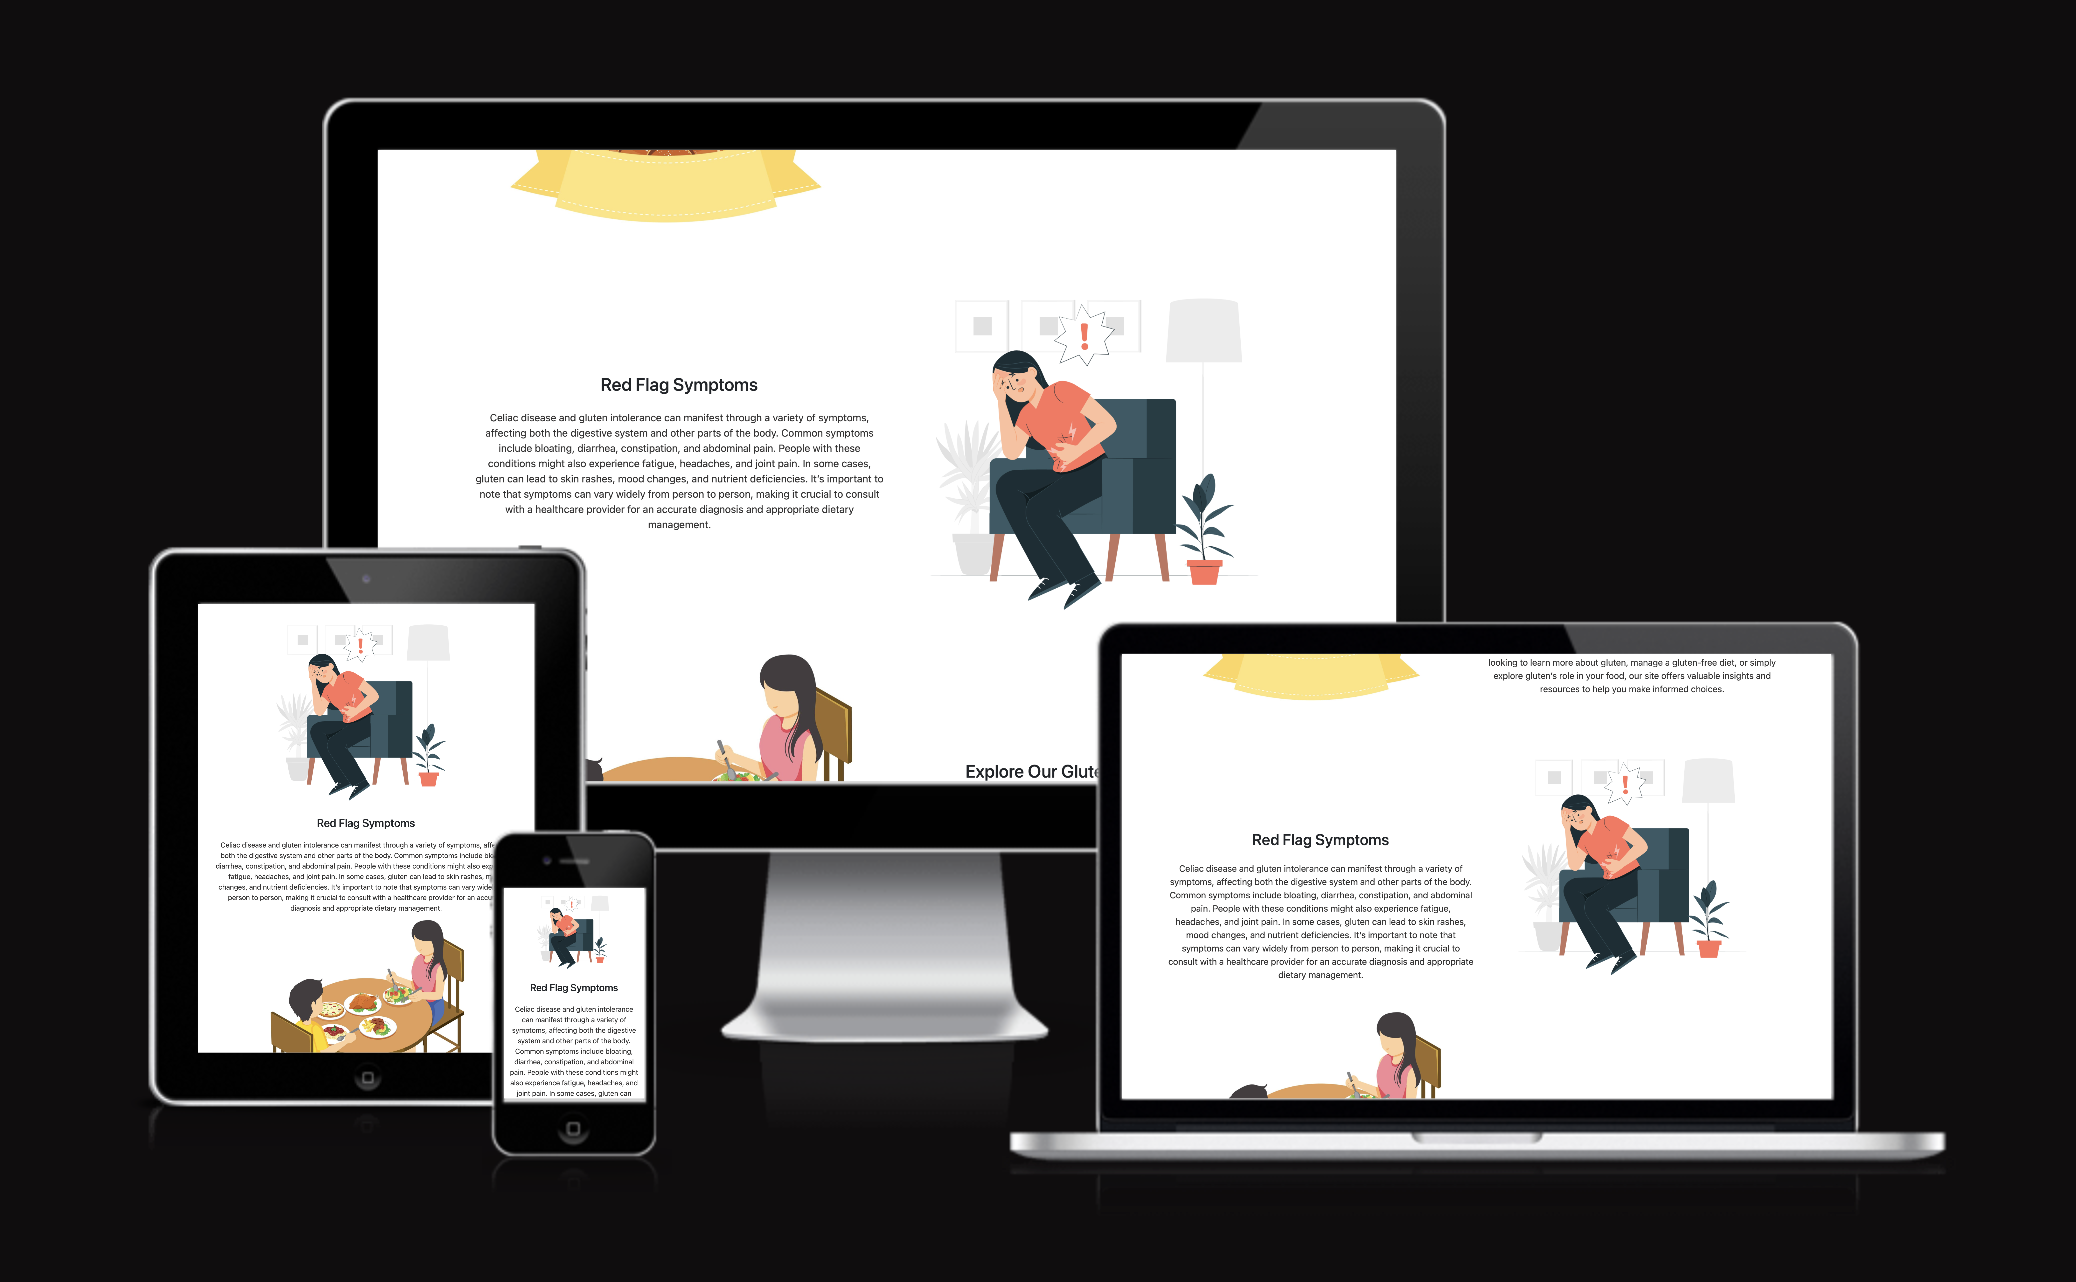
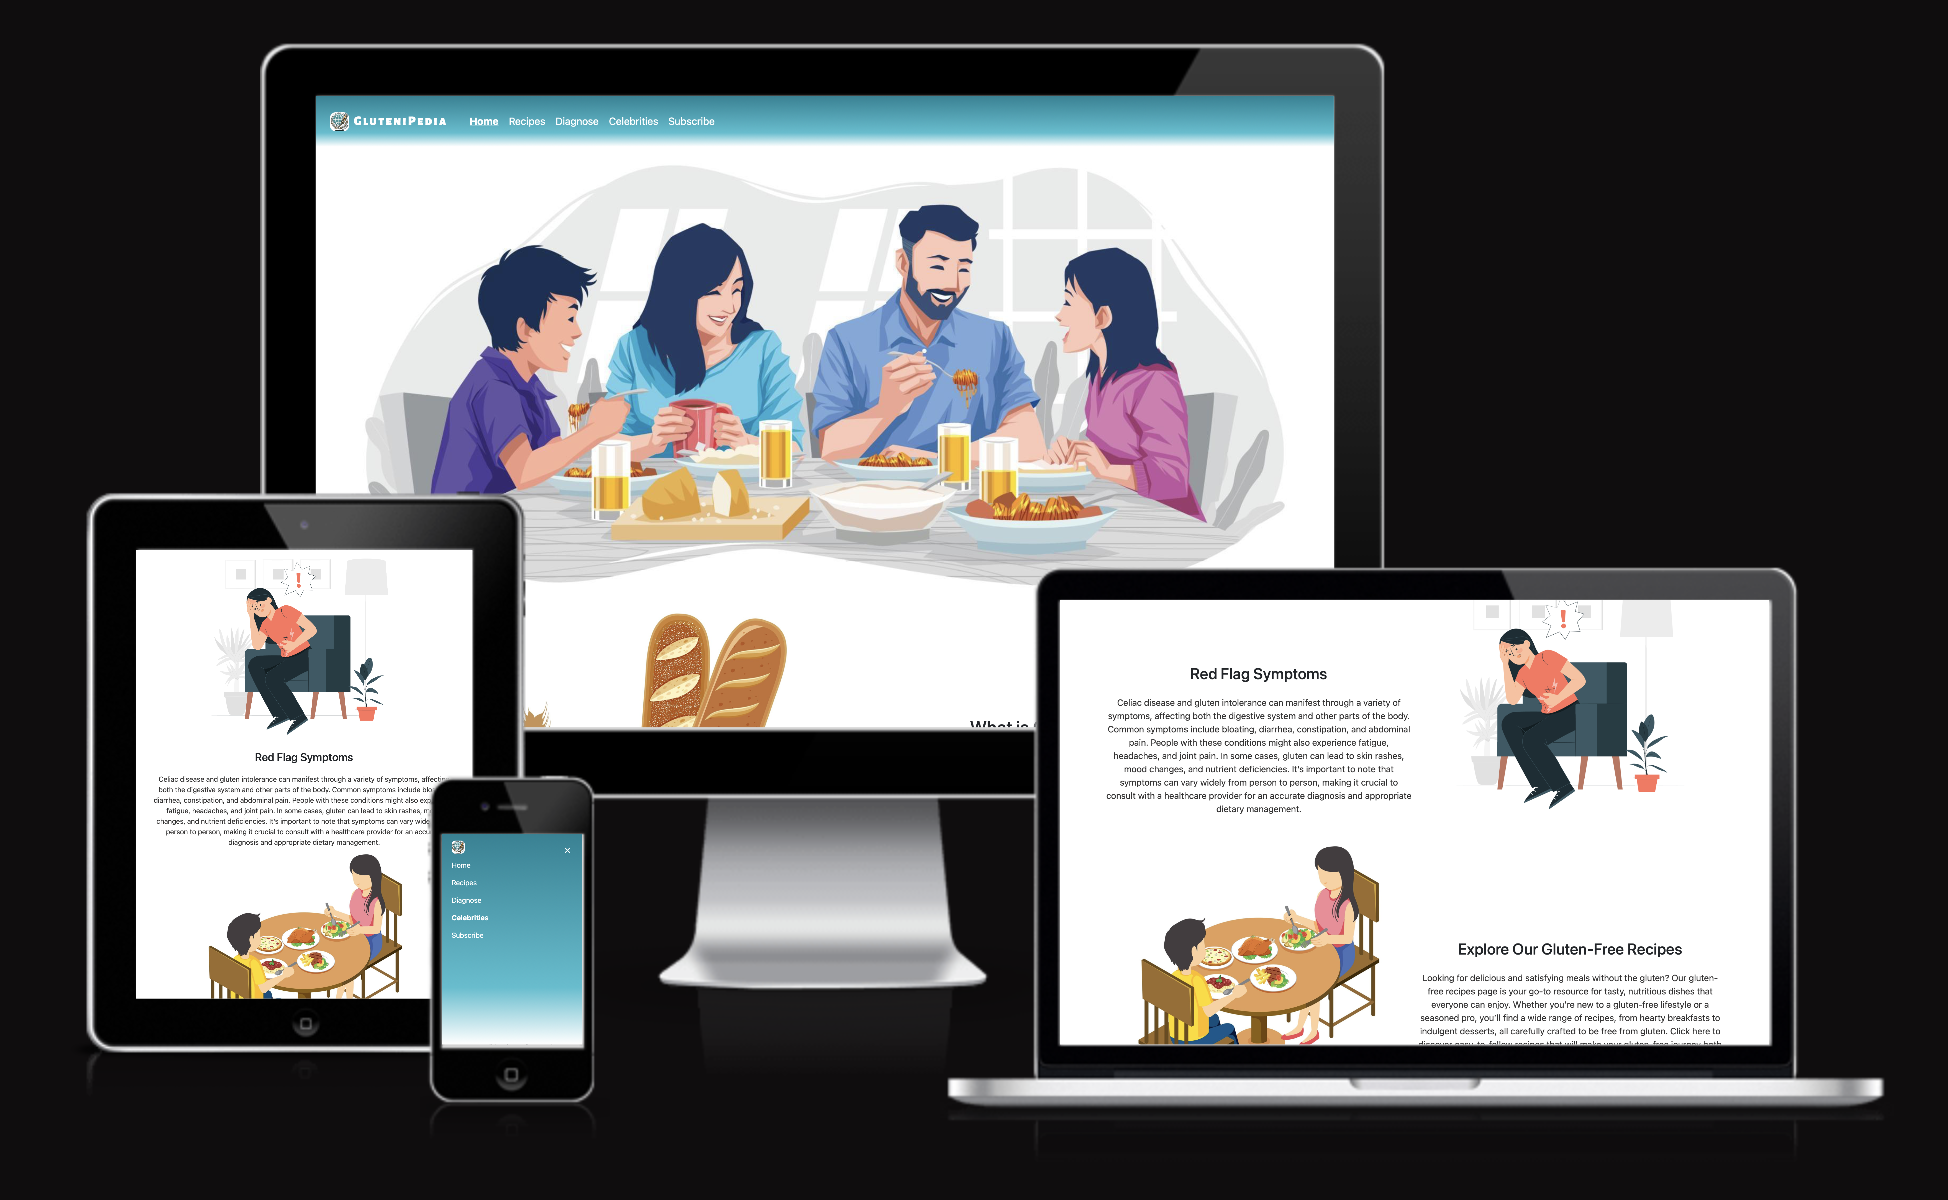
Init readme file

diff --git a/README.md b/README.md
@@ -1,0 +1,222 @@
+# [GLUTENIPEDIA](https://nourshbair.github.io/GluteniPedia)
+
+[![GitHub commit activity](https://img.shields.io/github/commit-activity/t/NourShbair/GluteniPedia)](https://github.com/NourShbair/GluteniPedia/commits/main)
+[![GitHub last commit](https://img.shields.io/github/last-commit/NourShbair/GluteniPedia)](https://github.com/NourShbair/GluteniPedia/commits/main)
+[![GitHub repo size](https://img.shields.io/github/repo-size/NourShbair/GluteniPedia)](https://github.com/NourShbair/GluteniPedia)
+
+
+Welcome to **GluteniPedia**!
+
+**GluteniPedia** is your go-to online encyclopedia designed to make life easier for people with celiac disease, gluten intolerance, or gluten allergies, as well as their families, friends, and caregivers. We provide reliable, easy-to-understand information about gluten-free living, from dietary tips to managing health risks, and everything in between. Our mission is to empower individuals to make informed decisions and navigate a gluten-free lifestyle with confidence. Whether you’re newly diagnosed or a long-time gluten-free advocate, GluteniPedia is here to support you every step of the way.
+
+
+![screenshot](documentation/mockup.png)
+
+source: [amiresponsive](https://ui.dev/amiresponsive?url=https://nourshbair.github.io/GluteniPedia)
+
+## UX
+At **GluteniPedia**, we focus on providing a seamless and user-friendly experience for everyone dealing with gluten-related challenges. Our platform is built to make the navigation of gluten-free living as straightforward and supportive as possible.
+
+Key aspects of our user experience include:
+
+• **Intuitive Design:** We’ve crafted a clean, easy-to-navigate interface that allows users to browse through articles and resources effortlessly, ensuring that the information you need is always just a click away.
+
+• **Accessible to All:** We are committed to making GluteniPedia accessible to everyone, adhering to web accessibility standards (WCAG). Our platform is designed with readability and usability in mind, including clear typography, responsive design, and optimal performance on both desktop and mobile devices.
+
+• **Subscribe to Our Newsletter:** Stay updated with the latest information, tips, and gluten-free resources by subscribing to our newsletter. We regularly share valuable content to help you navigate your gluten-free journey with ease.
+
+At **GluteniPedia**, we aim to create a reliable and supportive platform that empowers you with the knowledge and tools you need to thrive in a gluten-free lifestyle.
+
+
+## Colour Scheme
+- `#000000` used for primary text.
+- `#FFFFFF` used for primary background.
+- `#FFFFFF` used for secondary text.
+- `#088395` used for secondary background.
+- `#04444D` used for highlighted text.
+
+
+I used [coolors.co](https://coolors.co/000505-088395-fefcfd) to generate my colour palette.
+
+![screenshot](documentation/coolors.png)
+
+
+
+## Typography
+- [Alegreya Sans SC](https://fonts.google.com/specimen/Alegreya+Sans+SC?query=Alegreya) was used for the primary font of the site.
+- [Font Awesome](https://fontawesome.com) icons were used throughout the site, such as the social media icons in the footer.
+
+
+## Features
+**GluteniPedia** offers a range of features designed to provide comprehensive support and information for anyone navigating a gluten-free lifestyle. Here’s an overview of what you can find on our platform
+### Existing Features
+
+- **What is Gluten?**
+
+    - Get a clear and detailed explanation of what gluten is, where it’s commonly found, and how it affects people with celiac disease, gluten intolerance, or gluten sensitivity. This section serves as an essential guide for understanding the basics of gluten.
+
+![screenshot](documentation/features/gluten-mockup.png)
+
+- **Diagnosing Gluten-Related Conditions**
+
+    - Explore the different methods and tests used to diagnose gluten-related diseases like celiac disease and gluten sensitivity. We provide information on symptoms to watch for, medical tests available, and the steps involved in obtaining an accurate diagnosis.
+
+![screenshot](documentation/features/diagnose-mockup.png)
+
+- **Gluten-Free Recipes**
+
+    - Discover a variety of delicious, easy-to-follow gluten-free recipes that cater to different tastes and dietary needs. From snacks to full meals, our recipe section is packed with creative ideas to make gluten-free living both healthy and enjoyable.
+
+![screenshot](documentation/features/recipes-mockup.png)
+![screenshot](documentation/features/recipe-mockup.png)
+
+
+- **Celebrities on a Gluten-Free Diet**
+
+    - Learn about well-known celebrities and public figures who follow a gluten-free diet, and how they manage their lifestyle choices. This section serves as both inspiration and a reminder that a gluten-free diet can be adopted by anyone.
+
+![screenshot](documentation/features/celebrities-mockup.png)
+
+- **Brands Supporting Gluten-Free Options**
+
+    - Stay informed about brands that offer gluten-free products. We showcase a variety of companies committed to providing safe, gluten-free options for those with dietary restrictions, making your shopping experience easier.
+
+![screenshot](documentation/features/brands-mockup.png)
+
+- **Subscribe to Our Newsletter**
+
+    - Never miss an update! Subscribe to our newsletter to receive the latest articles, recipes, and tips on gluten-free living directly in your inbox. Our newsletter is designed to keep you informed and inspired on your gluten-free journey.
+
+![screenshot](documentation/features/subscription-mockup.png)
+![screenshot](documentation/features/confirmation-mockup.png)
+
+
+- **About Page**
+
+    - Learn more about **GluteniPedia**, our mission, and the team behind the platform. Our About page provides insight into why we created this platform and how we strive to make a positive impact on the lives of individuals dealing with gluten-related conditions.
+
+![screenshot](documentation/features/about-mockup.png)
+
+
+- **Privacy Policy Page**
+
+    - Your privacy matters to us. Our Privacy Policy page details how we collect, use, and protect your personal information when you use GluteniPedia. We are committed to maintaining the confidentiality of our users and ensuring a secure browsing experience.
+
+![screenshot](documentation/features/privacy-policy-mockup.png)
+
+
+- **Error Page**
+
+    - If you happen to land on a page that doesn’t exist, don’t worry! Our custom error page will help guide you back to the right place, ensuring a smooth and frustration-free browsing experience.
+
+![screenshot](documentation/features/error-mockup.png)
+GluteniPedia is designed to be a one-stop resource for all things gluten-related, offering information, support, and inspiration for anyone affected by gluten-related health issues or those supporting someone who is.
+
+
+### Future Features
+- RTL Support: Arabic Language
+    - To make GluteniPedia accessible to a wider audience, we plan to introduce full Arabic language support, which includes implementing a Right-to-Left (RTL) layout for optimal readability. This change will allow us to cater to Arabic-speaking individuals and ensure that the website functions seamlessly in both languages, offering the same great experience regardless of the user’s language preference. This involves adapting the site’s design, text alignment, and navigation to properly support RTL content.
+- Community for Users
+    - We understand the importance of connecting with others who share similar experiences. Soon, we will introduce a dedicated community space where users can share their personal stories, tips, and experiences with gluten-free living. Additionally, users will be able to upload and exchange gluten-free recipes, creating a collaborative environment for sharing ideas and support.
+- Gluten-Free Restaurants Section
+    - Dining out can be challenging for those on a gluten-free diet, which is why we are planning to introduce a dedicated section featuring restaurants that offer gluten-free options. This feature will allow users to easily find and explore dining establishments that cater to their dietary needs, making eating out a more enjoyable and worry-free experience.
+
+
+## Tools & Technologies Used
+- [![Markdown Builder](https://img.shields.io/badge/Markdown_Builder-grey?logo=markdown&logoColor=000000)](https://tim.2bn.dev/markdown-builder) used to generate README and TESTING templates.
+- [![Git](https://img.shields.io/badge/Git-grey?logo=git&logoColor=F05032)](https://git-scm.com) used for version control. (`git add`, `git commit`, `git push`)
+- [![GitHub](https://img.shields.io/badge/GitHub-grey?logo=github&logoColor=181717)](https://github.com) used for secure online code storage.
+- [![VSCode](https://img.shields.io/badge/VSCode-grey?logo=visualstudiocode&logoColor=007ACC)](https://code.visualstudio.com) used as my local IDE for development.
+- [![HTML](https://img.shields.io/badge/HTML-grey?logo=html5&logoColor=E34F26)](https://en.wikipedia.org/wiki/HTML) used for the main site content.
+- [![CSS](https://img.shields.io/badge/CSS-grey?logo=css3&logoColor=1572B6)](https://en.wikipedia.org/wiki/CSS) used for the main site design and layout.
+- [![GitHub Pages](https://img.shields.io/badge/GitHub_Pages-grey?logo=githubpages&logoColor=222222)](https://pages.github.com) used for hosting the deployed front-end site.
+- [![Bootstrap](https://img.shields.io/badge/Bootstrap-grey?logo=bootstrap&logoColor=7952B3)](https://getbootstrap.com) used as the front-end CSS framework for modern responsiveness and pre-built components.
+- [![Font Awesome](https://img.shields.io/badge/Font_Awesome-grey?logo=fontawesome&logoColor=528DD7)](https://fontawesome.com) used for the icons.
+- [![ChatGPT](https://img.shields.io/badge/ChatGPT-grey?logo=chromatic&logoColor=75A99C)](https://chat.openai.com) used to help debug, troubleshoot, and explain things.
+
+
+## Testing
+> [!NOTE]  
+> For all testing, please refer to the [TESTING.md](TESTING.md) file.
+
+
+## Deployment
+
+The site was deployed to GitHub Pages. The steps to deploy are as follows:
+
+- In the [GitHub repository](https://github.com/NourShbair/GluteniPedia), navigate to the Settings tab 
+- From the source section drop-down menu, select the **Main** Branch, then click "Save".
+- The page will be automatically refreshed with a detailed ribbon display to indicate the successful deployment.
+
+The live link can be found [here](https://nourshbair.github.io/GluteniPedia)
+
+
+### Local Deployment
+
+This project can be cloned or forked in order to make a local copy on your own system.
+
+
+
+#### Cloning
+
+You can clone the repository by following these steps:
+
+1. Go to the [GitHub repository](https://github.com/NourShbair/GluteniPedia) 
+2. Locate the Code button above the list of files and click it 
+3. Select if you prefer to clone using HTTPS, SSH, or GitHub CLI and click the copy button to copy the URL to your clipboard
+4. Open Git Bash or Terminal
+5. Change the current working directory to the one where you want the cloned directory
+6. In your IDE Terminal, type the following command to clone my repository:
+	- `git clone https://github.com/NourShbair/GluteniPedia.git`
+7. Press Enter to create your local clone.
+
+Alternatively, if using Gitpod, you can click below to create your own workspace using this repository.
+
+[![Open in Gitpod](https://gitpod.io/button/open-in-gitpod.svg)](https://gitpod.io/#https://github.com/NourShbair/GluteniPedia)
+
+Please note that in order to directly open the project in Gitpod, you need to have the browser extension installed.
+A tutorial on how to do that can be found [here](https://www.gitpod.io/docs/configure/user-settings/browser-extension).
+
+
+
+#### Forking
+
+By forking the GitHub Repository, we make a copy of the original repository on our GitHub account to view and/or make changes without affecting the original owner's repository.
+You can fork this repository by using the following steps:
+
+1. Log in to GitHub and locate the [GitHub Repository](https://github.com/NourShbair/GluteniPedia)
+2. At the top of the Repository (not top of page) just above the "Settings" Button on the menu, locate the "Fork" Button.
+3. Once clicked, you should now have a copy of the original repository in your own GitHub account!
+
+
+
+## Credits
+
+- [Freepik](https://www.freepik.com) used as a source of all cartoon pics in the site.
+
+- [CODEPEN](https://codepen.io/gradar/pen/BaavLLo) helped in implementation of slideshow using HTML and CSS only.
+
+- [Skinnytaste](https://www.skinnytaste.com/recipes/gluten-free/) used as a source of  gluten-free recipes.
+
+
+
+### Content
+
+| Source | Location | Notes |
+| --- | --- | --- |
+| [Markdown Builder](https://tim.2bn.dev/markdown-builder) | README and TESTING | tool to help generate the Markdown files |
+| [Bootstrap](https://getbootstrap.com/docs/5.3/components/navbar/#how-it-works) | Entire Site | responsive navbar |
+| [Bootstrap](https://getbootstrap.com/docs/5.3/layout/grid/#nesting) | Home - Celebrities - Recipes Pages | responsive grid |
+| [W3Schools](https://www.w3schools.com/cssref/sel_target.php) | Recipes Page | redirct to recipe page using #id and :target |
+| [LoveRunning](https://github.com/Code-Institute-Solutions/love-running-v3) | Subscription Page | get inspired by the form used in LoveRunning app |
+| [CODEPEN](https://codepen.io/gradar/pen/BaavLLo) | Home Page | brands slideshow with HTML and CSS only |
+| [CODEPEN](https://codepen.io/gradar/pen/BaavLLo) | Confirm Subscription Page | countdown with HTML and CSS only |
+| [Youtube](https://www.youtube.com/watch?v=-TCcJ4ap05o) | Navbar Menu Button | Collapsible DIV With HTML CSS Only |
+
+
+### Acknowledgements
+
+- I would like to thank my partner [Ahmad ElShareif](https://github.com/Ahmah2009), for always believing in me, and encouraging me to make this 'transition' into web development.
+- I would like to thank my Code Institute mentor, [Tim Nelson](https://github.com/TravelTimN) for his support throughout the development of this project.
+- I would like to thank the [Code Institute](https://codeinstitute.net) tutor team for their assistance with troubleshooting and debugging some project issues.
+- I would like to thank the [Code Institute Slack community](https://code-institute-room.slack.com) for the moral support; it kept me going during periods of self doubt and imposter syndrome.
